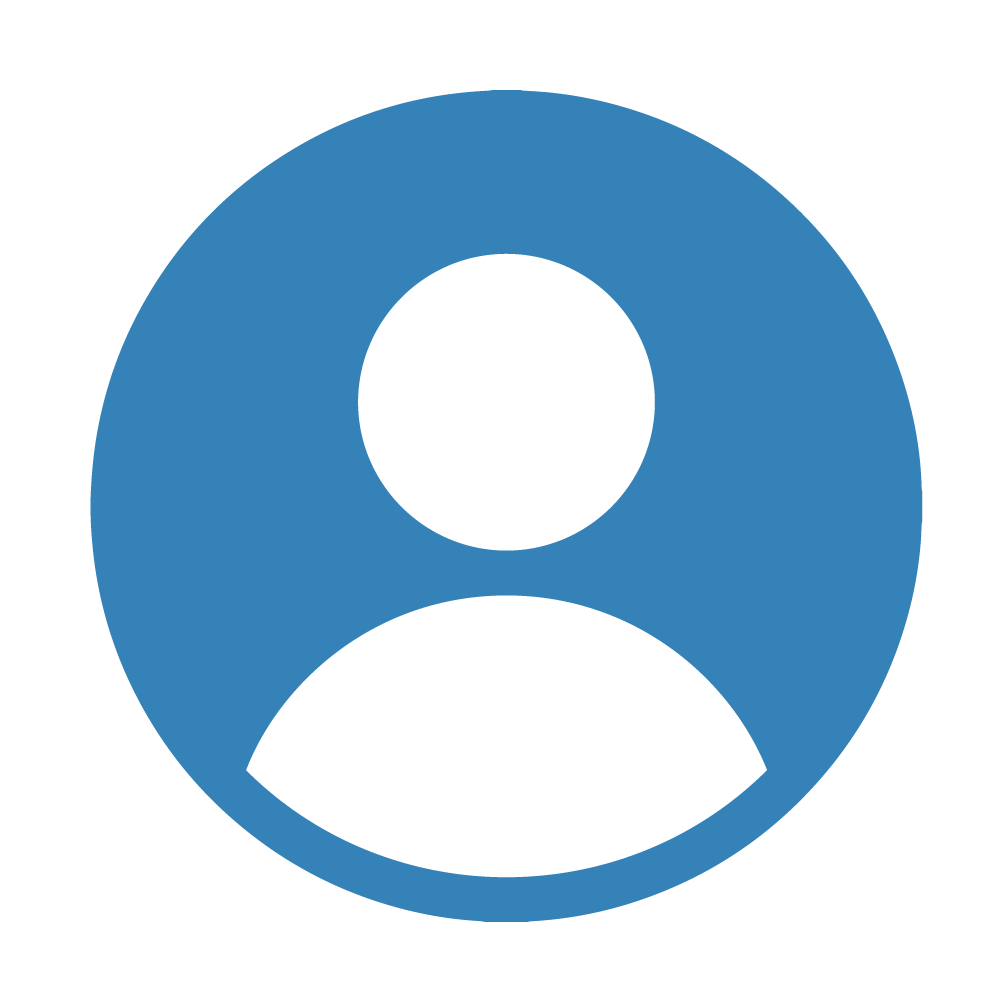
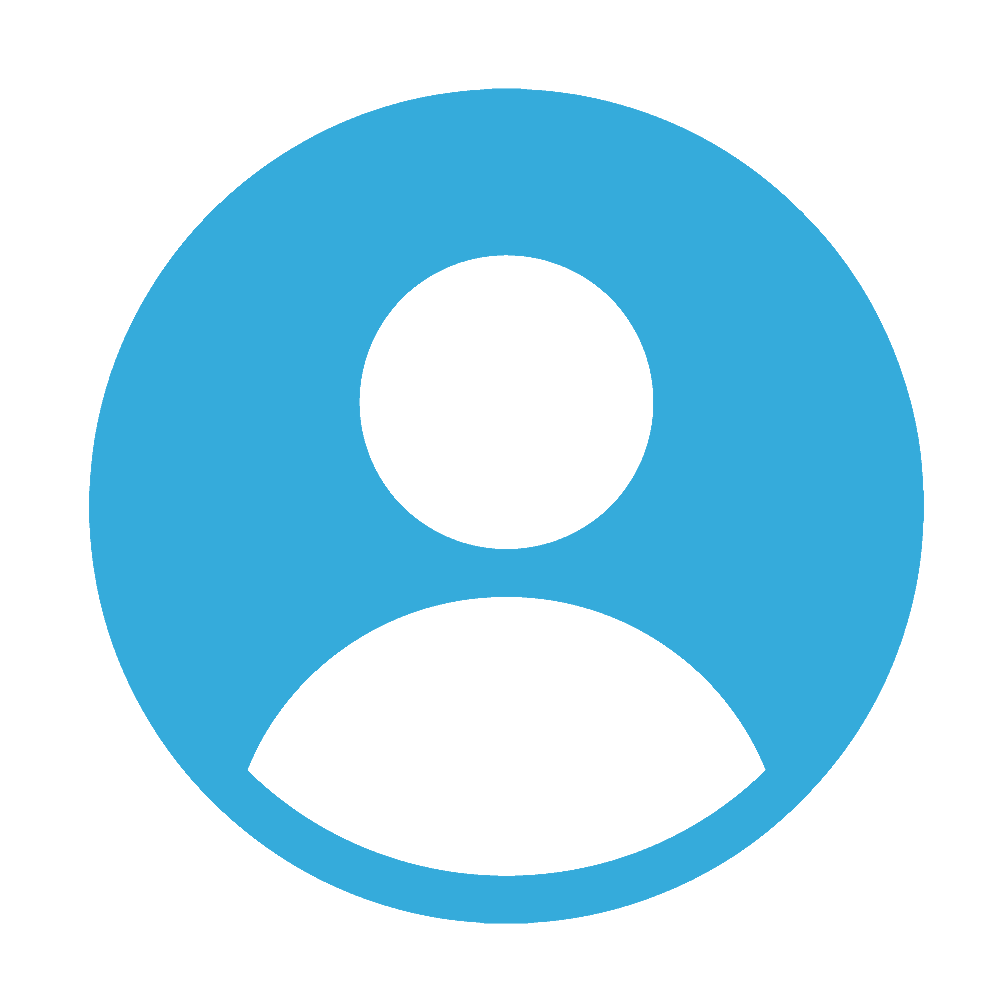
Finished styling

diff --git a/OfficeMapUI/src/app/auth/auth.component.css b/OfficeMapUI/src/app/auth/auth.component.css
@@ -1,13 +1,33 @@
 img {
   display: block;
   margin: auto;
+  padding: 1em;
 }
-div {
+input[type=text]{
+  display: block;
+  width: 25%;
+  padding: 10px 10px;
+  margin: 20px auto;
+  box-sizing: border-box;
+  border: 1px solid #EAEAEA;
+  border-radius: 5px;
+  color: #575757;
+  font-size: 17px;
+  font-family: system-ui;
+}
+::placeholder {
+  color: #B0B0B0;
+}
+button{
+  display: block;
+  width: 25%;
+  padding: 10px 10px;
+  margin: 20px auto;
+  border: none;
+  border-radius: 5px;
+  color: white;
+  background-color: #35ABDB;
   cursor: pointer;
-  position: relative;
-  left: 0;
-  padding: .3em 0;
-  height: 1.6em;
-  border-radius: 2px;
-  text-align: center;
+  font-size: 17px;
+  font-family: system-ui;
 }

diff --git a/OfficeMapUI/src/app/auth/auth.component.html b/OfficeMapUI/src/app/auth/auth.component.html
@@ -6,16 +6,16 @@
 <body>
 <link rel="stylesheet" href="auth.component.css">
 
-<img src="logo-lanit-tercom.png" alt="lanit-tercom" width="549" height="240.5">
-<img src="user-icon.png" alt="user" width="250" height="250">
+<img src="logo-lanit-tercom.png" alt="lanit-tercom" width="30%">
+<img src="user-icon.png" alt="user" width="15%">
 <div>
   <label>
-  <input [(ngModel)]="username" placeholder="Username"/>
+  <input [(ngModel)]="username" placeholder="Username" type="text"/>
   </label>
 </div>
 <div>
   <label>
-  <input [(ngModel)]="password" placeholder="Password"/>
+  <input [(ngModel)]="password" placeholder="Password" type="text"/>
   </label>
 </div>
 <div>
